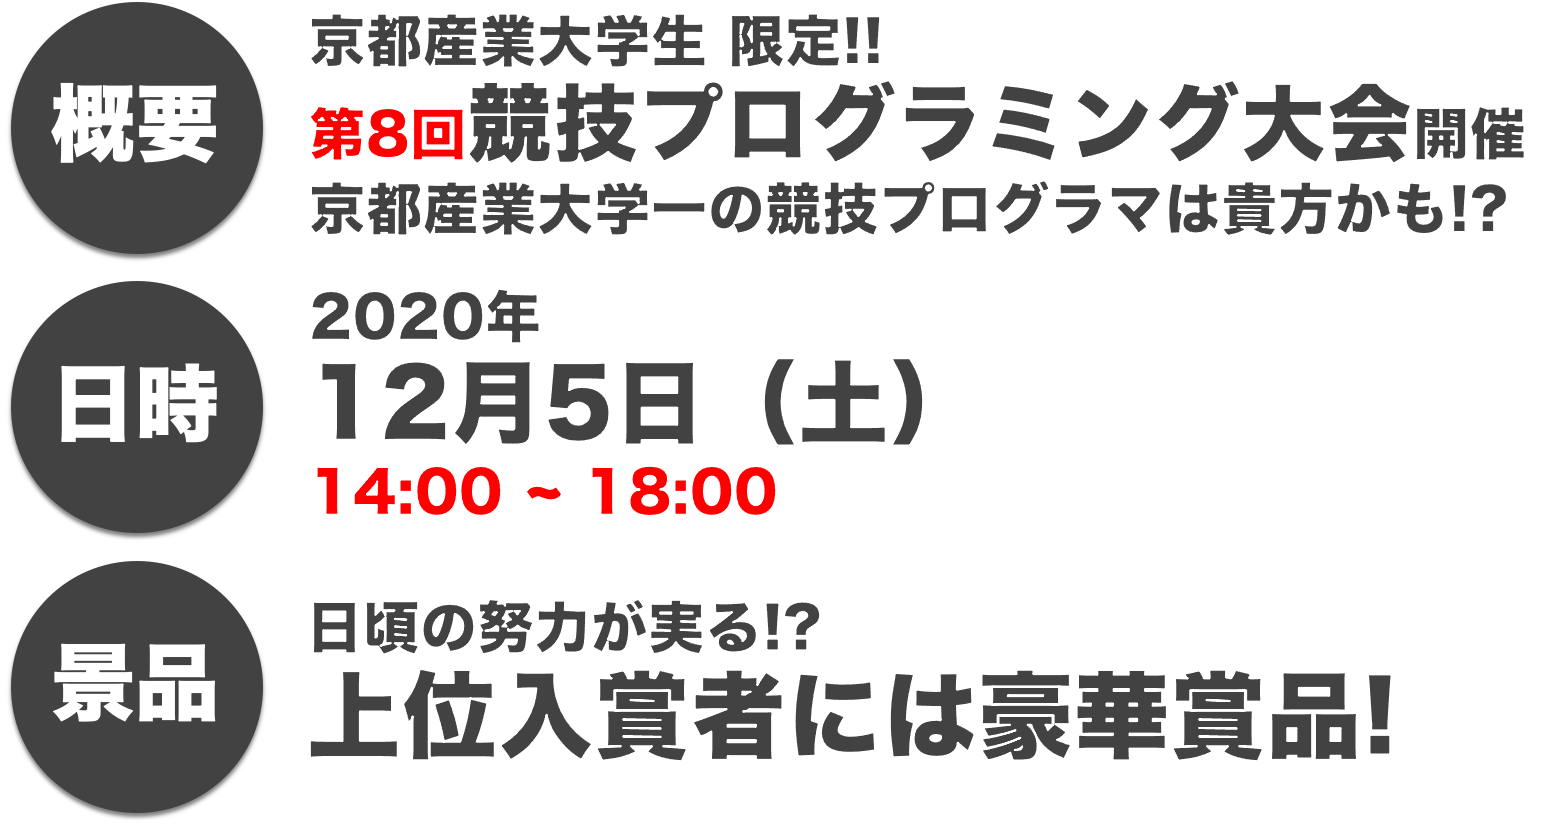
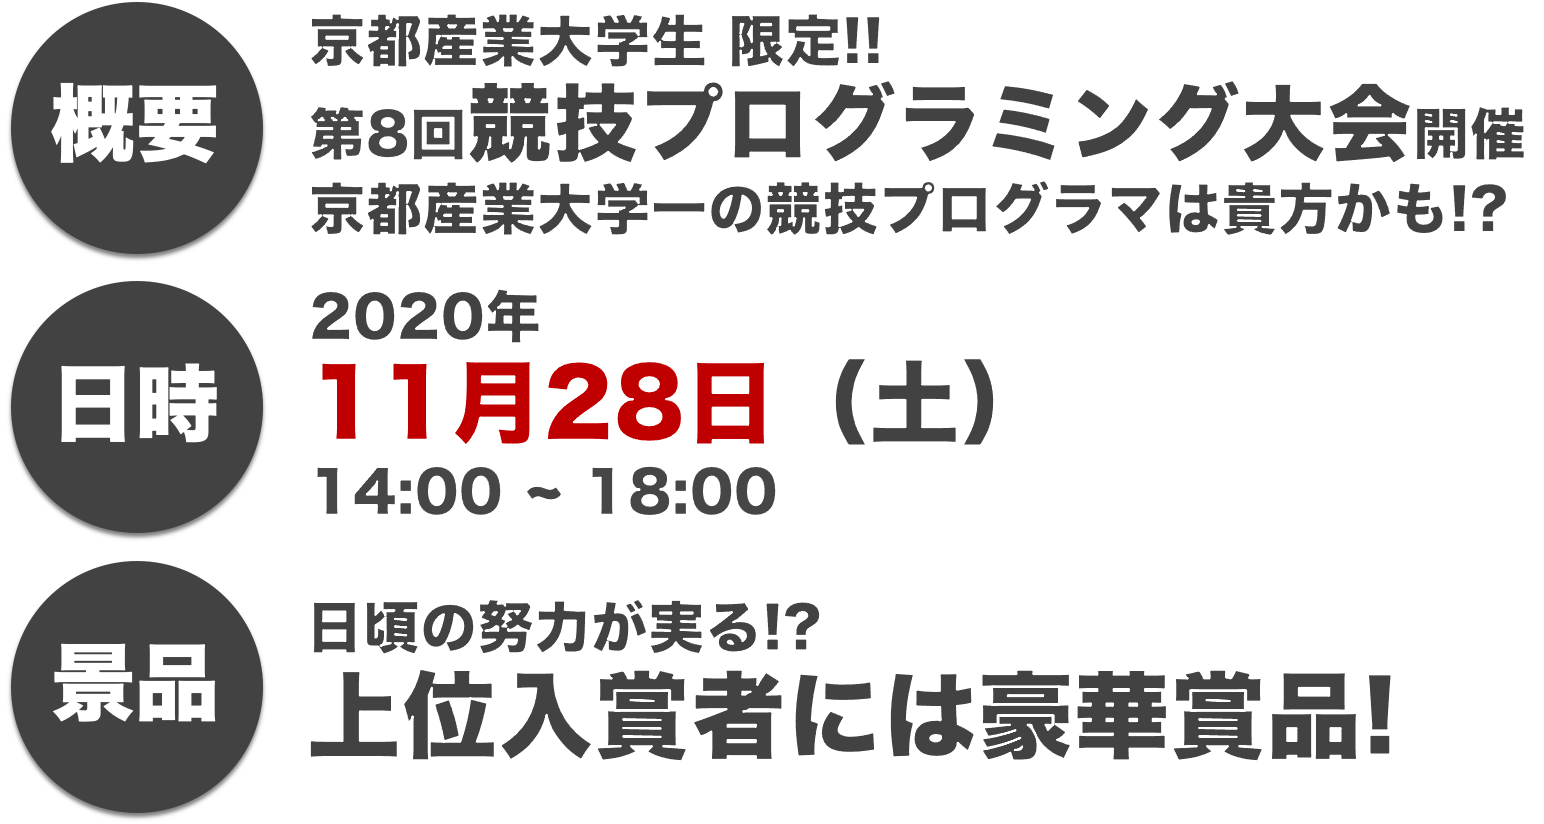
日程変更を反映

Changed region(s): [[0.1865, 0.4248, 0.6528, 0.6371], [0.1865, 0.1214, 0.3109, 0.2124]]

diff --git a/2020/index.html b/2020/index.html
@@ -28,8 +28,8 @@
                     <h2 class=" text-xs-center" style="margin-bottom:30px;">What's New</h2>
                     <div class="scroll-box">
                         <table class="table table-hover">
+                            <tr><td>2020.11.8</td> <td>開催日程を変更しました。</td></tr>
                             <tr><td>2020.10.26</td> <td>ティザーサイトをオープンしました。</td></tr>
-
                         </table>
                     </div>
                 </div>
@@ -50,7 +50,7 @@
                 <div class="card">
                     <div class="card-block">
                     <p class="card-title">開催名: TeraCoder2020</p>
-                    <p class="card-text">日程: 12月5日(土) <b>14:00 - 18:00</b> </p>
+                    <p class="card-text">日程: 11月28日(土) <b>14:00 - 18:00</b> </p>
                     <p class="card-text">会場: Webシステム上で開催 (TeraCoder Online Judge System)</p>
                     <p class="card-text">参加資格: 京都産業大学の学生/教員/京都産業大学附属高等学校の生徒</p>
                     <p class="card-text">備考: Google検索可/言語制限なし/部門賞・ラッキー賞あり/本番中のネタバレ禁止/事前準備OK</p>

diff --git a/2020/js/template.js b/2020/js/template.js
@@ -47,7 +47,7 @@ $(document).ready(function () {
 
     function getDaysLeft(y, m, d) {
         var currentDay = new Date().getTime();
-        var targetDay = new Date(2020, 12-1, 5).getTime();
+        var targetDay = new Date(2020, 11-1, 28).getTime();
 
         var diffMsec = targetDay - currentDay;
         var diffDays = diffMsec / (1000 * 60 * 60 * 24);
